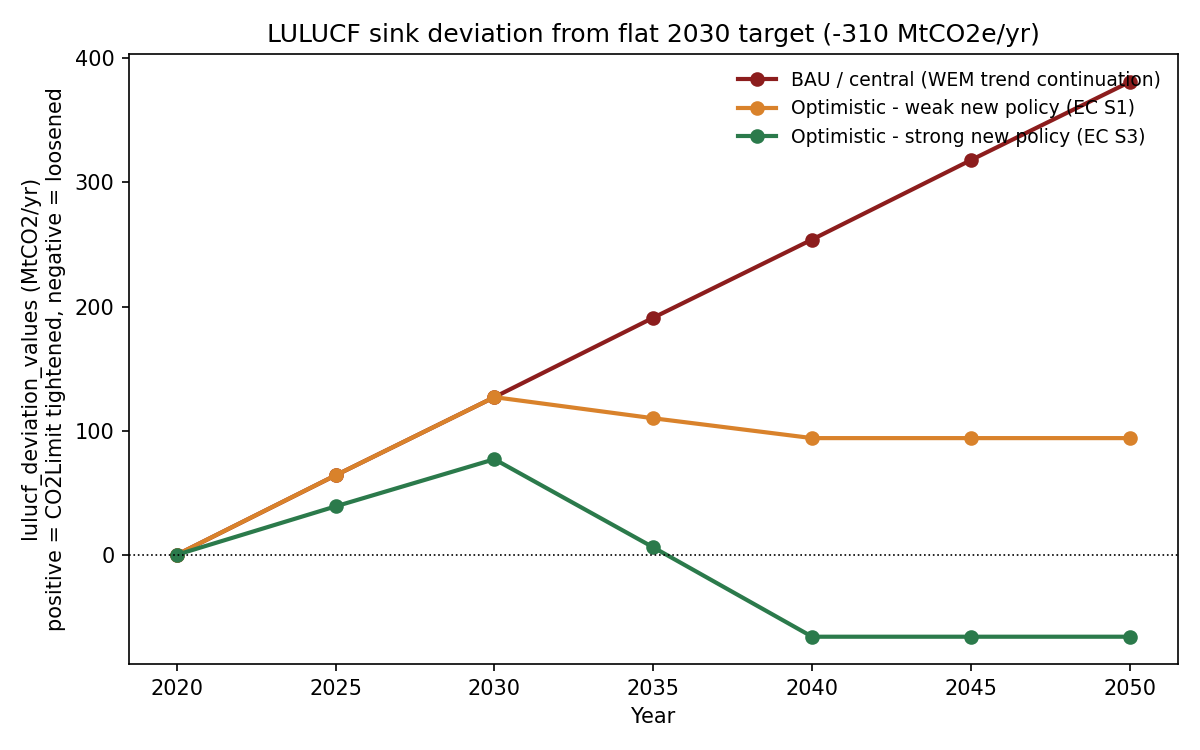
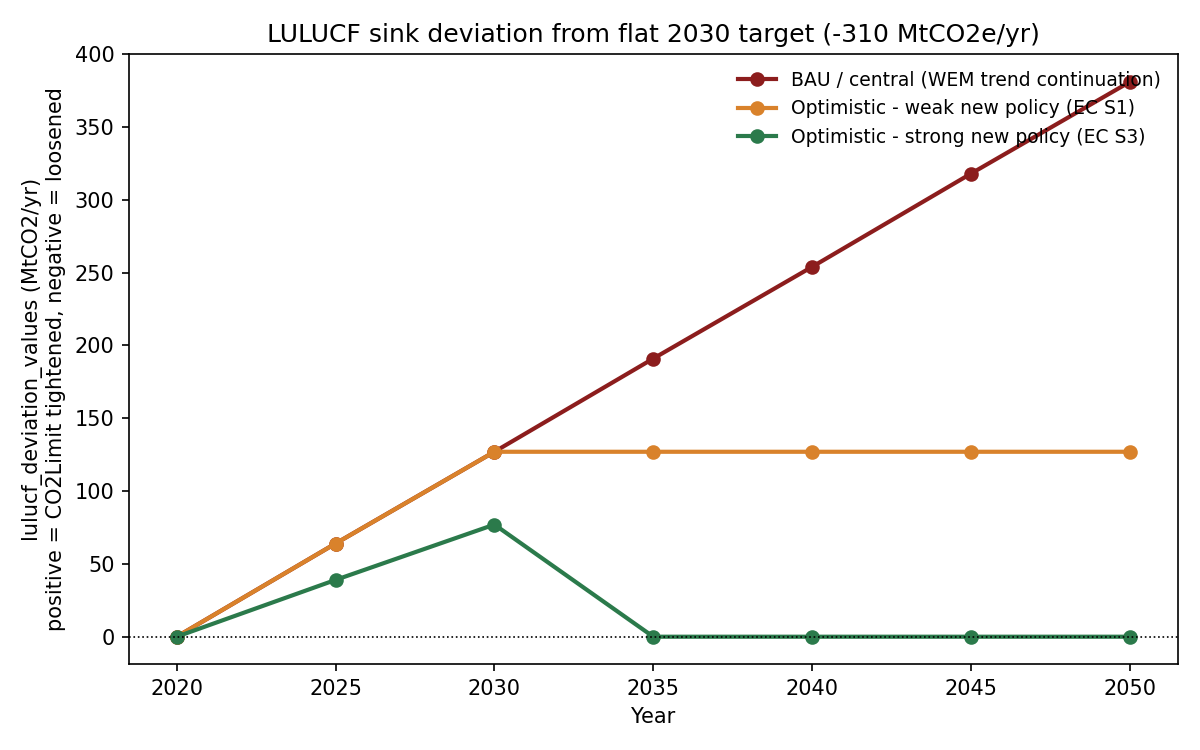
Simplify optimistic-weak/strong LULUCF scenarios: flat-hold and return-to-zero
Replace the literature-extrapolated post-2030 shape for the two optimistic
scenarios with plain modelling assumptions: weak policy holds flat at the
2030 forecast (127 MtCO2/yr) instead of continuing to decline to 94;
strong policy returns to exactly zero by 2035 (sink back on target, not
overshooting into negative/loosening territory) instead of extrapolating
to -66. 2025/2030 sourced anchors unchanged for both. BAU (the scenario
actually active in config.default.yaml, used by both runs) is unaffected.

Claude-Session: https://claude.ai/code/session_01KkHwmFFdgK5T1XFbFHA5SA

diff --git a/text_docs/scripts/plot_lulucf_scenarios.py b/text_docs/scripts/plot_lulucf_scenarios.py
@@ -16,10 +16,10 @@ SCENARIOS = {
         2020: 0, 2025: 64, 2030: 127, 2035: 191, 2040: 254, 2045: 318, 2050: 381,
     },
     "Optimistic - weak new policy (EC S1)": {
-        2020: 0, 2025: 64, 2030: 127, 2035: 110, 2040: 94, 2045: 94, 2050: 94,
+        2020: 0, 2025: 64, 2030: 127, 2035: 127, 2040: 127, 2045: 127, 2050: 127,
     },
     "Optimistic - strong new policy (EC S3)": {
-        2020: 0, 2025: 39, 2030: 77, 2035: 6, 2040: -66, 2045: -66, 2050: -66,
+        2020: 0, 2025: 39, 2030: 77, 2035: 0, 2040: 0, 2045: 0, 2050: 0,
     },
 }
 COLORS = {

diff --git a/text_docs/text/lulucf_deviation_methodology.md b/text_docs/text/lulucf_deviation_methodology.md
@@ -131,14 +131,20 @@ performance).
   | Upper (EUR200/tCO2e) | -376 | -374 | -376 |
 
   All values MtCO2e, 2040. S3 is the scenario the IEEP brief identifies as
-  aligned with the Commission's actual recommended target, so S3's lower
-  and upper bounds (-215 and -376) are used below as the 2040 anchors for
-  the two optimistic scenarios (BAU continues to use the independent
-  WEM-trend extrapolation, not an S3 number).
+  aligned with the Commission's actual recommended target. **Superseded
+  2026-09-01**: this table was originally used to anchor the two
+  optimistic scenarios' 2040 values (S3 lower/upper bounds, -215/-376).
+  Section 4 below now uses a simpler, non-literature-derived construction
+  for the weak/strong post-2030 shape instead (flat-hold at the 2030
+  forecast for weak; return to exactly zero by 2035, held flat, for
+  strong) — this table is kept as background/context on the spread the EC's
+  own Impact Assessment reports, not as the literal source of the numbers
+  below anymore.
 - No literature was found projecting the EU-27 LULUCF sink specifically for
-  2045 or 2050. Both the BAU and optimistic scenarios below hold their 2040
-  value flat beyond 2040, purely for lack of any sourced alternative — this
-  is a placeholder, not a forecast.
+  2045 or 2050. The BAU scenario holds its 2040 value flat beyond 2040 for
+  lack of any sourced alternative — this is a placeholder, not a forecast.
+  The optimistic scenarios' post-2030 shape is now a plain modelling
+  assumption rather than an extrapolation (see Section 4).
 
 ## 4. Three scenarios
 
@@ -172,36 +178,40 @@ independently sourced.
 | 2020 |                         0 |                                       0 |                                          0 |
 | 2025 |                        64 |                                      64 |                                         39 |
 | 2030 |                       127 |                                     127 |                                         77 |
-| 2035 |                       191 |                                     110 |                                          6 |
-| 2040 |                       254 |                                      94 |                                        -66 |
-| 2045 |                       318 |                                      94 |                                        -66 |
-| 2050 |                       381 |                                      94 |                                        -66 |
+| 2035 |                       191 |                                     127 |                                          0 |
+| 2040 |                       254 |                                     127 |                                          0 |
+| 2045 |                       318 |                                     127 |                                          0 |
+| 2050 |                       381 |                                     127 |                                          0 |
 
 **How each column is built:**
 
 - **BAU (central)** = straight-line continuation of the 2020->2030 WEM
   decline slope (12.7 MtCO2/yr^2). This is the scenario currently active in
-  `config.default.yaml` (unchanged numbers). It is the most literal reading
-  of "current trends continue, no new policy materializes" — consistent
-  with the peer-reviewed literature (Section 2), which reports an
-  accelerating, disturbance-driven decline with "no sign of reversal."
-  Because that literature suggests the decline could accelerate further,
-  even this BAU line may be optimistic relative to reality, not pessimistic.
-- **Optimistic — weak new policy** = 2030 WEM anchor (-183 MtCO2e/yr, same
-  as BAU's 2030 point by construction) interpolated/extrapolated to the
-  EC's own S3 lower-bound 2040 Impact-Assessment value (-215 MtCO2e/yr,
-  Table 3, EUR0/tCO2e land carbon price), then held flat 2040-2050 for lack of
-  further sourced data. Represents "existing EU policy continues, no new
-  *dedicated* LULUCF intervention, but the EC's own assumed baseline
-  policy trajectory holds" — already an improvement on pure trend
-  continuation, since the EC's baseline embeds some continued effort.
-- **Optimistic — strong new policy** = 2030 WAM anchor (-233 MtCO2e/yr,
-  "with additional measures") interpolated/extrapolated to the EC's
-  strongest 2040 scenario (-376 MtCO2e/yr), held flat thereafter.
-  Represents effective new post-2030 EU land-sink/bioeconomy policy landing
-  as intended — this scenario actually **overshoots** the 2030 target by
-  2040 (negative deviation, i.e. CO2Limit would be loosened, not
-  tightened).
+  `config.default.yaml` (unchanged numbers), and the one actually used by
+  both `run1_baseline` (deviation disabled) and `run2_full` (deviation
+  enabled) — neither run uses either of the two scenarios below. It is the
+  most literal reading of "current trends continue, no new policy
+  materializes" — consistent with the peer-reviewed literature (Section 2),
+  which reports an accelerating, disturbance-driven decline with "no sign
+  of reversal." Because that literature suggests the decline could
+  accelerate further, even this BAU line may be optimistic relative to
+  reality, not pessimistic.
+- **Optimistic — weak new policy** (simplified 2026-09-01): 2025/2030
+  anchors unchanged (64/127, same WEM-sourced 2030 point as BAU). From 2030
+  onward, the deviation is held flat at the 2030 forecast (127) rather than
+  continuing to decline — i.e. "existing policy holds the 2030 shortfall
+  steady, no further erosion and no further improvement." This replaces an
+  earlier, more literature-derived construction (EC S1 2040 Impact
+  Assessment anchor); simplified for now to a plain flat-hold assumption.
+- **Optimistic — strong new policy** (simplified 2026-09-01): 2025/2030
+  anchors unchanged (39/77, same WAM-sourced 2030 point). The deviation is
+  assumed to close to exactly **zero by 2035** (sink performance catches
+  up to the flat -310 MtCO2e/yr target, neither under- nor over-performing)
+  and holds at zero through 2050 — deliberately **not** allowed to go
+  negative (which would mean the sink overshoots the target and loosens
+  CO2Limit). This replaces an earlier construction that extrapolated to
+  the EC's strongest 2040 scenario and went negative from 2040; simplified
+  for now to a plain "recovers to on-target by 2035, then flat" assumption.
 
 ## 5. Open items / next steps
 
